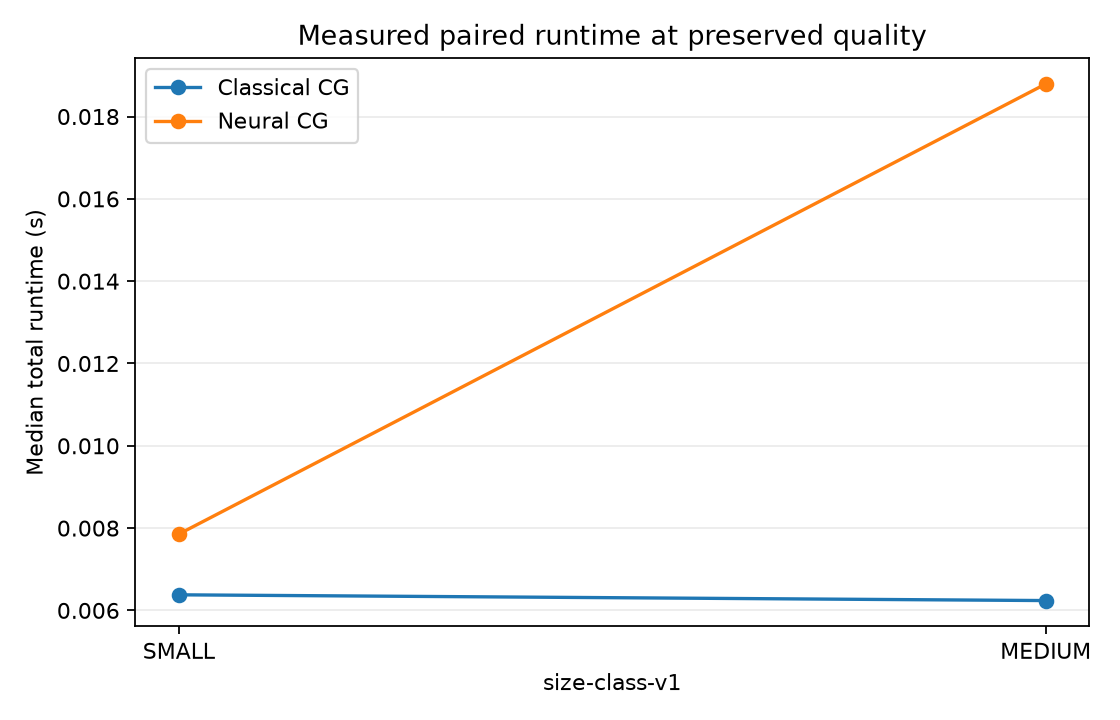
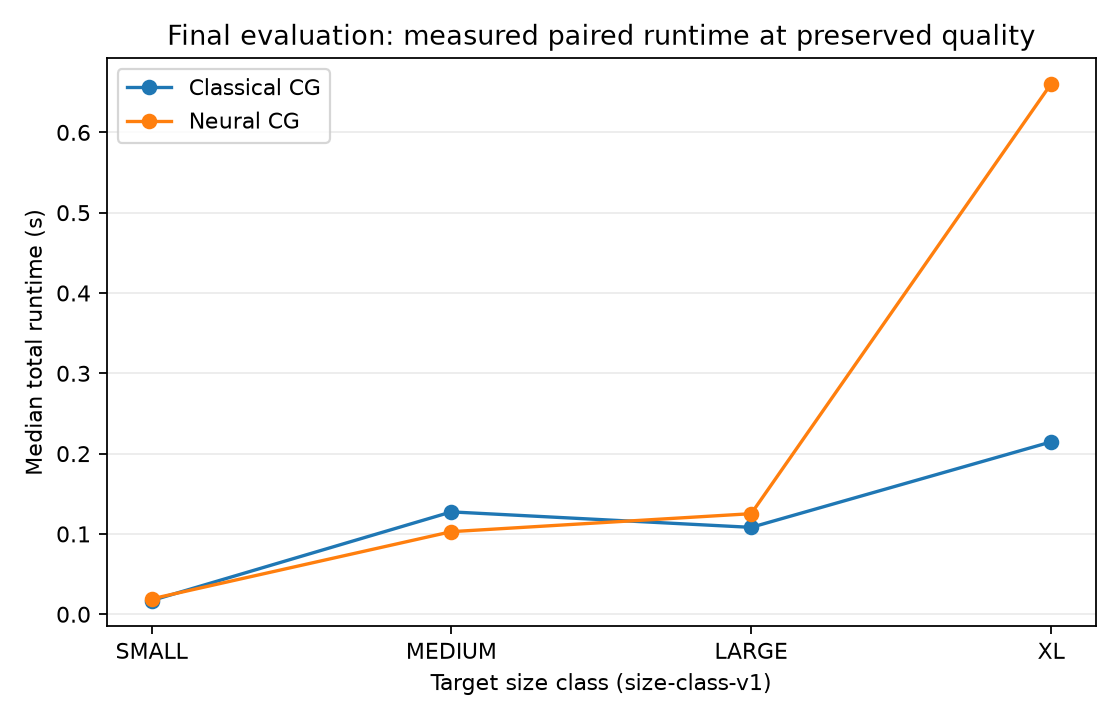
feat(visualization): derive final runtime comparison figure from validated phase-6 runs

diff --git a/tests/test_phase6_visualization.py b/tests/test_phase6_visualization.py
@@ -1,0 +1,141 @@
+import json
+from pathlib import Path
+
+import pytest
+from test_benchmark_comparison import _record as base_record
+
+from neural_cutting_stock.benchmarks import SolverMode, validate_final_manifest
+from neural_cutting_stock.visualization.phase4 import load_phase4_runs
+from neural_cutting_stock.visualization.phase6 import (
+    phase6_runtime_comparison_data,
+    write_phase6_runtime_comparison,
+)
+
+ROOT = Path(__file__).parents[1]
+
+
+def _campaign_record(mode: SolverMode, instance: str, repetition: int, **changes: object):
+    return base_record(
+        mode,
+        f"{mode.value}-{instance}-{repetition}",
+        instance_id=instance,
+        repetition=repetition,
+        **changes,
+    )
+
+
+def _runtime_pair(instance: str, repetition: int, classical_seconds: float, neural_seconds: float):
+    return [
+        _campaign_record(
+            SolverMode.CLASSICAL, instance, repetition, total_runtime_seconds=classical_seconds
+        ),
+        _campaign_record(
+            SolverMode.NEURAL, instance, repetition, total_runtime_seconds=neural_seconds
+        ),
+    ]
+
+
+def _split_modes(records):
+    return (
+        [r for r in records if r.solver_mode is SolverMode.CLASSICAL],
+        [r for r in records if r.solver_mode is SolverMode.NEURAL],
+    )
+
+
+def test_phase6_runtime_medians_aggregate_only_admissible_pairs(tmp_path: Path) -> None:
+    violating_neural = _campaign_record(
+        SolverMode.NEURAL,
+        "i-large",
+        2,
+        total_runtime_seconds=9.0,
+        objective_value=6.0,
+    )
+    records = [
+        *_runtime_pair("i-small", 0, 2.0, 1.0),
+        *_runtime_pair("i-small", 1, 4.0, 3.0),
+        *_runtime_pair("i-large", 0, 10.0, 5.0),
+        *_runtime_pair("i-large", 1, 12.0, 7.0),
+        _campaign_record(SolverMode.CLASSICAL, "i-large", 2, total_runtime_seconds=20.0),
+        violating_neural,
+    ]
+    classical, neural = _split_modes(records)
+
+    data = phase6_runtime_comparison_data(
+        classical, neural, {"i-small": "SMALL", "i-large": "LARGE"}
+    )
+
+    assert data["report"]["pair_count"] == 5
+    assert data["report"]["admissible_pair_count"] == 4
+    small = data["size_data"]["SMALL"]
+    large = data["size_data"]["LARGE"]
+    assert small == {
+        "pair_count": 2,
+        "instance_count": 1,
+        "classical_median_seconds": 3.0,
+        "neural_median_seconds": 2.0,
+    }
+    assert large["pair_count"] == 2 and large["instance_count"] == 1
+    assert large["classical_median_seconds"] == 11.0
+    assert large["neural_median_seconds"] == 6.0
+    for empty in ("MEDIUM", "XL"):
+        assert data["size_data"][empty]["pair_count"] == 0
+        assert data["size_data"][empty]["classical_median_seconds"] is None
+
+    write_phase6_runtime_comparison(data, tmp_path)
+    assert (tmp_path / "runtime_comparison.png").stat().st_size > 0
+
+
+def test_phase6_runtime_data_rejects_instances_missing_from_the_final_manifest() -> None:
+    classical, neural = _split_modes(_runtime_pair("i-unknown", 0, 2.0, 1.0))
+
+    with pytest.raises(ValueError, match="missing from the final instance manifest"):
+        phase6_runtime_comparison_data(classical, neural, {})
+
+
+def test_phase6_runtime_figure_refuses_to_plot_without_admissible_pairs(tmp_path: Path) -> None:
+    records = [
+        _campaign_record(SolverMode.CLASSICAL, "i-1", 0),
+        _campaign_record(SolverMode.NEURAL, "i-1", 0, objective_value=6.0),
+    ]
+    classical, neural = _split_modes(records)
+
+    data = phase6_runtime_comparison_data(classical, neural, {"i-1": "SMALL"})
+
+    assert data["report"]["admissible_pair_count"] == 0
+    with pytest.raises(ValueError, match="no admissible pair"):
+        write_phase6_runtime_comparison(data, tmp_path)
+
+
+def test_phase6_runtime_figure_is_derived_from_published_final_results(tmp_path: Path) -> None:
+    config = json.loads((ROOT / "configs/phase-6-final.json").read_text(encoding="utf-8"))
+    manifest = json.loads(
+        (ROOT / config["files"]["final_instance_manifest"]).read_text(encoding="utf-8")
+    )
+    validate_final_manifest(
+        manifest,
+        json.loads((ROOT / config["partitions"]["manifest"]).read_text(encoding="utf-8")),
+    )
+    size_class_by_instance = {
+        entry["instance_id"]: entry["target_size_class"] for entry in manifest["instances"]
+    }
+
+    data = phase6_runtime_comparison_data(
+        load_phase4_runs(ROOT / "results/phase-6-classical-runs.csv"),
+        load_phase4_runs(ROOT / "results/phase-6-neural-runs.csv"),
+        size_class_by_instance,
+        quality_tolerance=config["protocol"]["quality_tolerance_bars"],
+    )
+
+    assert data["report"]["run_count"] == 72
+    assert data["report"]["pair_count"] == 36
+    assert data["report"]["admissible_pair_count"] == 36
+    assert sum(item["pair_count"] for item in data["size_data"].values()) == 36
+    assert sorted(data["size_data"]) == ["LARGE", "MEDIUM", "SMALL", "XL"]
+    assert len(size_class_by_instance) == 12
+    for item in data["size_data"].values():
+        assert item["pair_count"] == 9 and item["instance_count"] == 3
+        assert item["classical_median_seconds"] > 0.0
+        assert item["neural_median_seconds"] > 0.0
+
+    write_phase6_runtime_comparison(data, tmp_path)
+    assert (tmp_path / "runtime_comparison.png").stat().st_size > 0

diff --git a/src/neural_cutting_stock/visualization/phase6.py b/src/neural_cutting_stock/visualization/phase6.py
@@ -1,11 +1,17 @@
-"""Phase 6 paired publication tables rendered from validated report data."""
+"""Phase 6 paired publication tables and figures from validated final results."""
 
 # Publication prose intentionally follows the report format.
 # ruff: noqa: E501
 
+from collections import defaultdict
+from collections.abc import Mapping, Sequence
 from contextlib import suppress
 from pathlib import Path
 from typing import Any
+
+import matplotlib.pyplot as plt
+
+from neural_cutting_stock.benchmarks import SIZE_CLASSES, BenchmarkRunRecord, build_paired_tables
 
 
 def write_paired_tables_markdown(
@@ -100,10 +106,93 @@ def write_paired_tables_markdown(
     Path(output_path).write_text("\n".join(lines), encoding="utf-8")
 
 
+def phase6_runtime_comparison_data(
+    classical_records: Sequence[BenchmarkRunRecord],
+    neural_records: Sequence[BenchmarkRunRecord],
+    size_class_by_instance: Mapping[str, str],
+    quality_tolerance: float = 0.0,
+) -> dict[str, Any]:
+    """Aggregate validated final paired runs into per-stratum runtime medians.
+
+    The paired tables are rebuilt from the raw campaign records with the same
+    machinery as the published tables; only quality-preserved admissible
+    repetitions feed the medians. Grouping uses the frozen pre-evaluation
+    ``target_size_class`` of the final instance manifest, not the per-run
+    measured size class, so both modes are grouped on the same strata.
+    """
+
+    report = build_paired_tables(classical_records, neural_records, quality_tolerance)
+    grouped: dict[str, list[dict[str, Any]]] = defaultdict(list)
+    for pair in report["pairs"]:
+        if not pair["admissible"]:
+            continue
+        instance_id = pair["instance_id"]
+        if instance_id not in size_class_by_instance:
+            raise ValueError(
+                f"paired instance is missing from the final instance manifest: {instance_id}"
+            )
+        grouped[size_class_by_instance[instance_id]].append(pair)
+    size_data = {}
+    for size in SIZE_CLASSES:
+        rows = grouped.get(size, [])
+        size_data[size] = {
+            "pair_count": len(rows),
+            "instance_count": len({row["instance_id"] for row in rows}),
+            "classical_median_seconds": _median(
+                [row["classical_total_runtime_seconds"] for row in rows]
+            ),
+            "neural_median_seconds": _median(
+                [row["neural_total_runtime_seconds"] for row in rows]
+            ),
+        }
+    return {"report": report, "size_data": size_data}
+
+
+def write_phase6_runtime_comparison(data: dict[str, Any], output_dir: str | Path) -> None:
+    """Write ``runtime_comparison.png`` from admissible final pairs only."""
+
+    output = Path(output_dir)
+    output.mkdir(parents=True, exist_ok=True)
+    sizes = [size for size in SIZE_CLASSES if data["size_data"][size]["pair_count"]]
+    if not sizes:
+        raise ValueError("no admissible pair is available for the runtime comparison figure")
+    figure, axis = plt.subplots(figsize=(7, 4.5))
+    axis.plot(
+        sizes,
+        [data["size_data"][size]["classical_median_seconds"] for size in sizes],
+        "o-",
+        label="Classical CG",
+    )
+    axis.plot(
+        sizes,
+        [data["size_data"][size]["neural_median_seconds"] for size in sizes],
+        "o-",
+        label="Neural CG",
+    )
+    axis.set_xlabel("Target size class (size-class-v1)")
+    axis.set_ylabel("Median total runtime (s)")
+    axis.set_title("Final evaluation: measured paired runtime at preserved quality")
+    axis.legend()
+    axis.grid(axis="y", alpha=0.25)
+    figure.tight_layout()
+    figure.savefig(output / "runtime_comparison.png", dpi=160)
+    plt.close(figure)
+
+
 def _relative(source: str) -> str:
     with suppress(ValueError):
         return str(Path(source).resolve().relative_to(Path.cwd().resolve()))
     return str(source)
+
+
+def _median(values: list[float | None]) -> float | None:
+    numbers = sorted(value for value in values if value is not None)
+    if not numbers:
+        return None
+    middle = len(numbers) // 2
+    return (
+        float(numbers[middle]) if len(numbers) % 2 else (numbers[middle - 1] + numbers[middle]) / 2
+    )
 
 
 def _seconds(value: float | None) -> str:

diff --git a/scripts/plot_phase6_results.py b/scripts/plot_phase6_results.py
@@ -1,0 +1,48 @@
+"""Generate the final runtime comparison figure from validated Phase 6 runs."""
+
+import argparse
+import json
+from pathlib import Path
+
+from neural_cutting_stock.benchmarks import validate_final_manifest
+from neural_cutting_stock.visualization.phase4 import load_phase4_runs
+from neural_cutting_stock.visualization.phase6 import (
+    phase6_runtime_comparison_data,
+    write_phase6_runtime_comparison,
+)
+
+
+def main() -> None:
+    parser = argparse.ArgumentParser()
+    parser.add_argument("--config", type=Path, default=Path("configs/phase-6-final.json"))
+    parser.add_argument(
+        "--classical-runs", type=Path, default=Path("results/phase-6-classical-runs.csv")
+    )
+    parser.add_argument("--neural-runs", type=Path, default=Path("results/phase-6-neural-runs.csv"))
+    parser.add_argument("--output-dir", type=Path, default=Path("results"))
+    args = parser.parse_args()
+    config = json.loads(args.config.read_text(encoding="utf-8"))
+    manifest_path = Path(config["files"]["final_instance_manifest"])
+    manifest = json.loads(manifest_path.read_text(encoding="utf-8"))
+    phase3_manifest = json.loads(
+        Path(config["partitions"]["manifest"]).read_text(encoding="utf-8")
+    )
+    validate_final_manifest(manifest, phase3_manifest)
+    size_class_by_instance = {
+        entry["instance_id"]: entry["target_size_class"] for entry in manifest["instances"]
+    }
+    data = phase6_runtime_comparison_data(
+        load_phase4_runs(args.classical_runs),
+        load_phase4_runs(args.neural_runs),
+        size_class_by_instance,
+        quality_tolerance=config["protocol"]["quality_tolerance_bars"],
+    )
+    args.output_dir.mkdir(parents=True, exist_ok=True)
+    write_phase6_runtime_comparison(data, args.output_dir)
+    print(f"wrote {args.output_dir / 'runtime_comparison.png'}")
+    report = data["report"]
+    print(f"pairs: {report['pair_count']}, admissible: {report['admissible_pair_count']}")
+
+
+if __name__ == "__main__":
+    main()

diff --git a/ROADMAP.md b/ROADMAP.md
@@ -151,7 +151,7 @@ Objectif : répondre sans ambiguïté à la question de recherche sur des instan
 - [x] **P6.07** — Tester la généralisation vers des tailles supérieures à celles d'entraînement.
 - [x] **P6.08** — Conserver et analyser échecs, violations, fallbacks et timeouts des deux modes.
 - [x] **P6.09** — Produire les tableaux appariés de qualité, runtime, mémoire, itérations et colonnes.
-- [ ] **P6.10** — Générer `results/runtime_comparison.png` uniquement depuis les résultats finaux validés.
+- [x] **P6.10** — Générer `results/runtime_comparison.png` uniquement depuis les résultats finaux validés.
 - [ ] **P6.11** — Générer `results/speedup_by_size.png` uniquement depuis les paires de qualité admissible.
 - [ ] **P6.12** — Rédiger la conclusion scientifique, les limites et les conditions de reproductibilité.
 - [ ] **P6.13** — Effectuer l'audit final et retirer code mort, doublons et artefacts temporaires inutiles.
